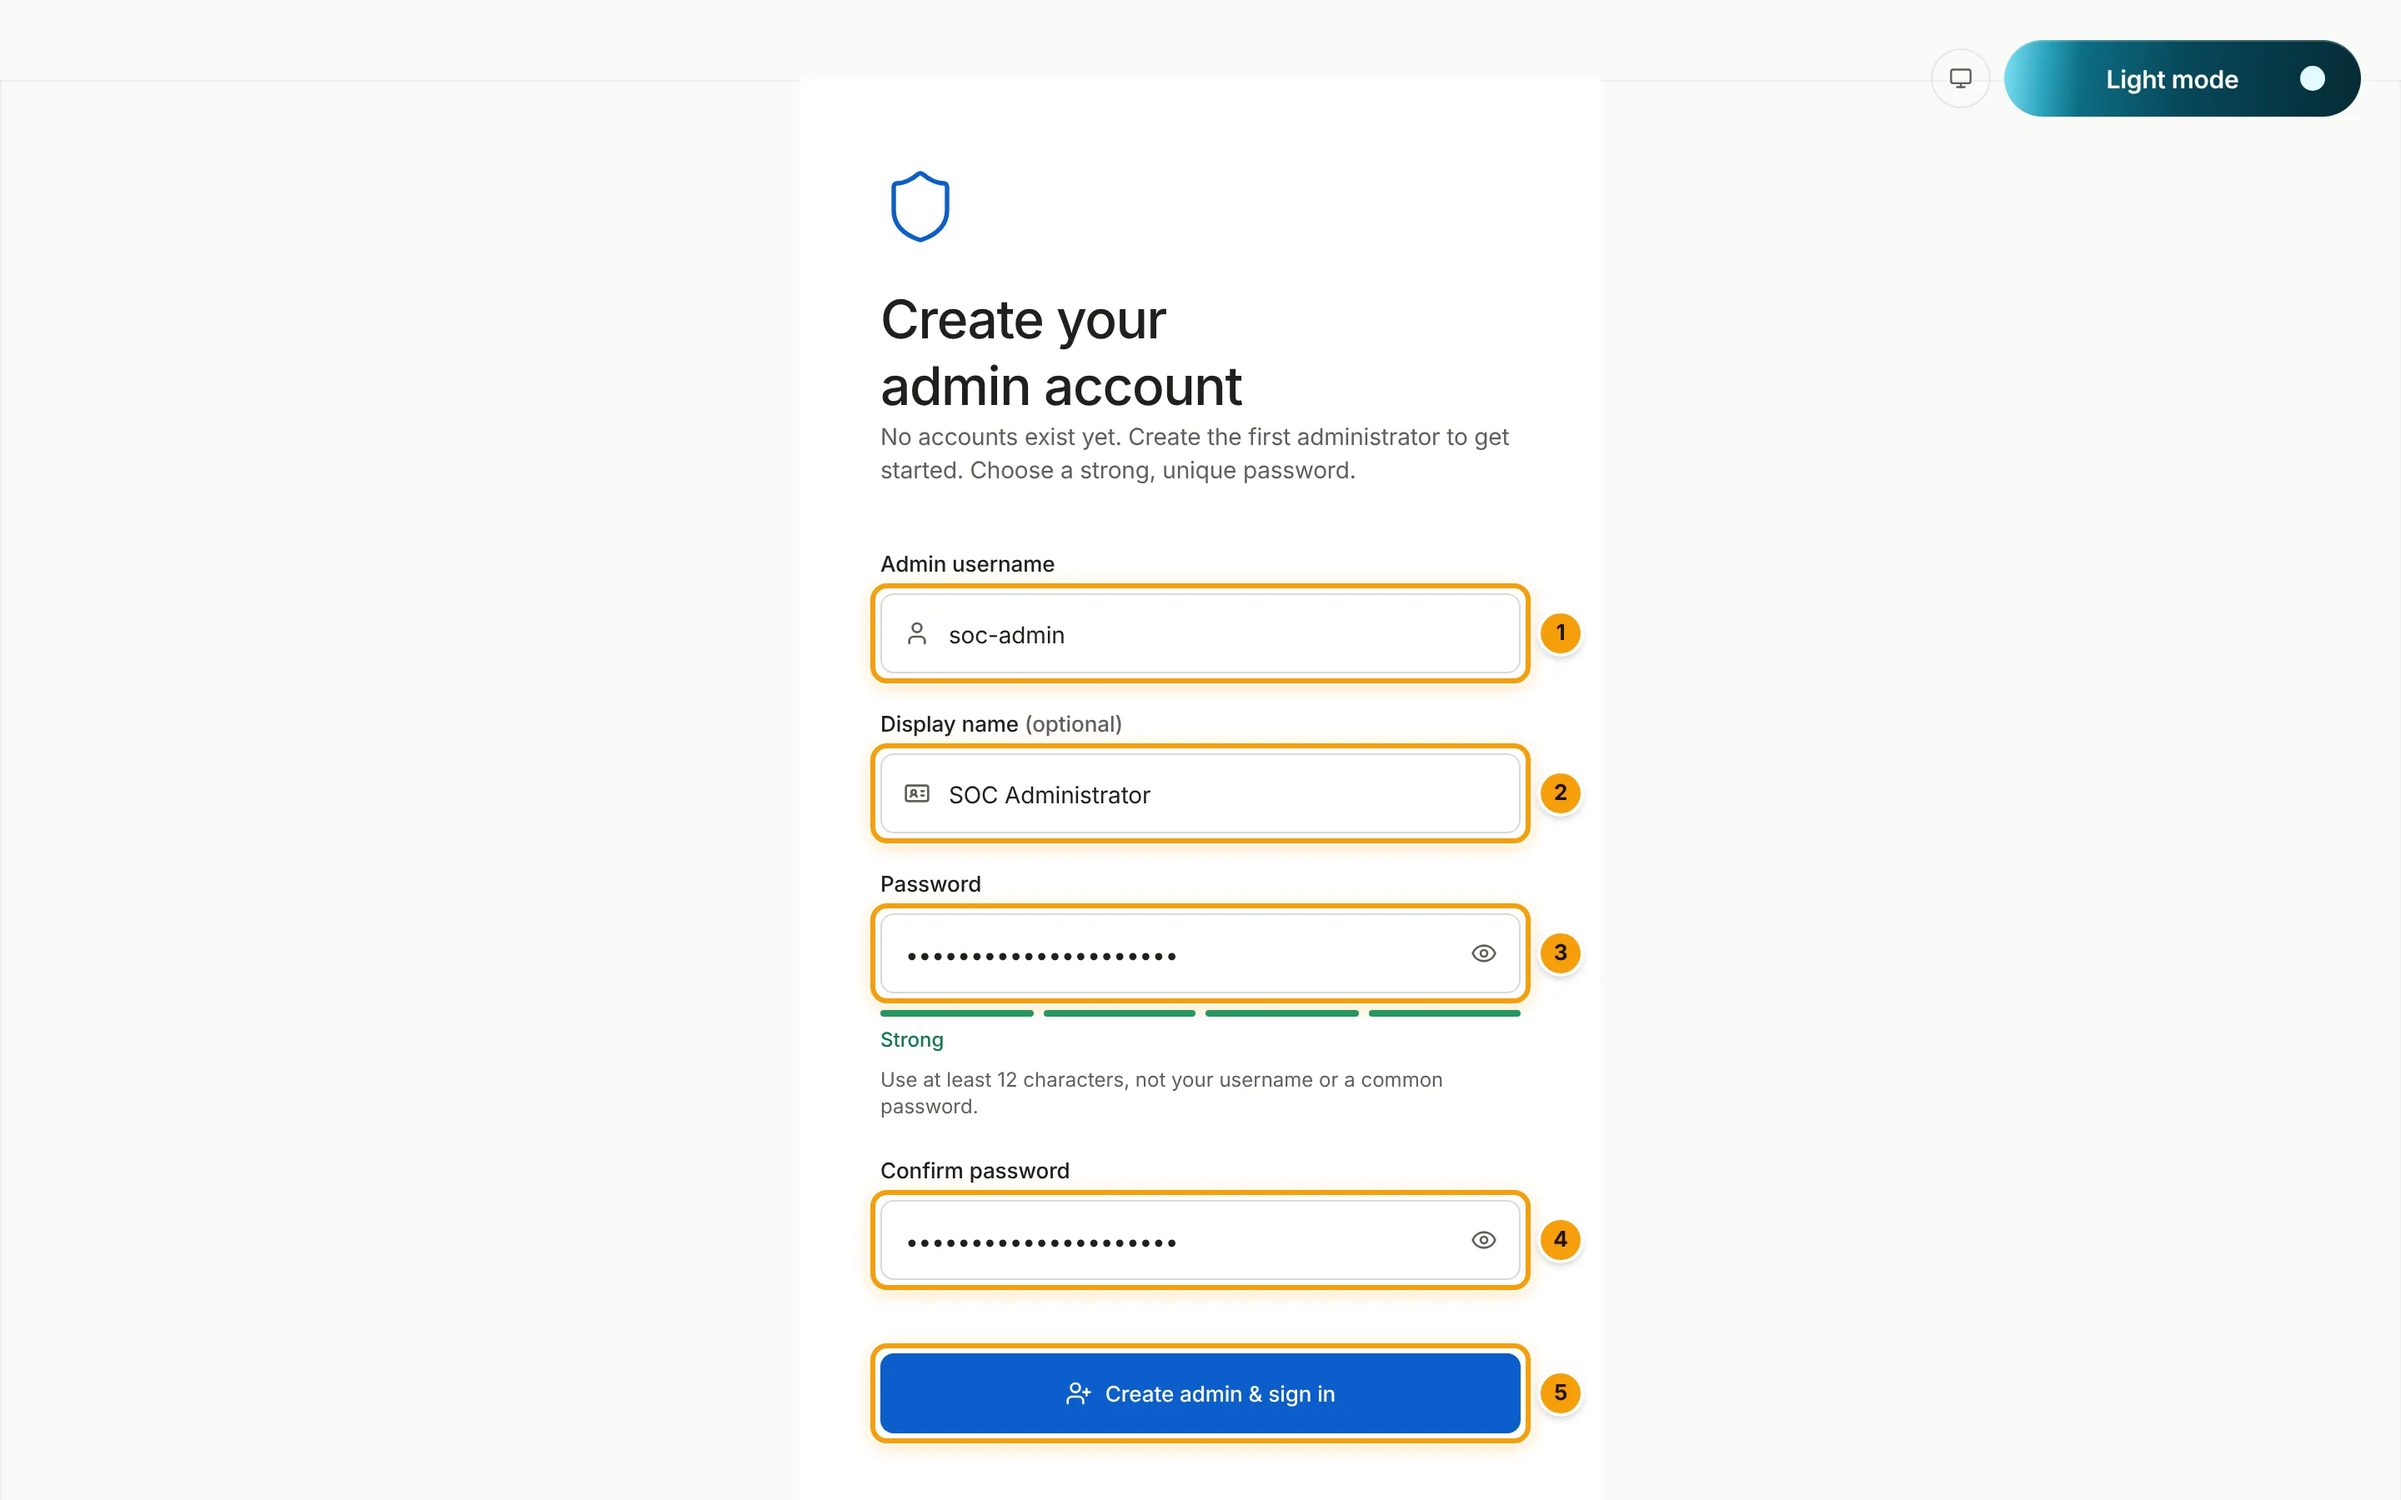
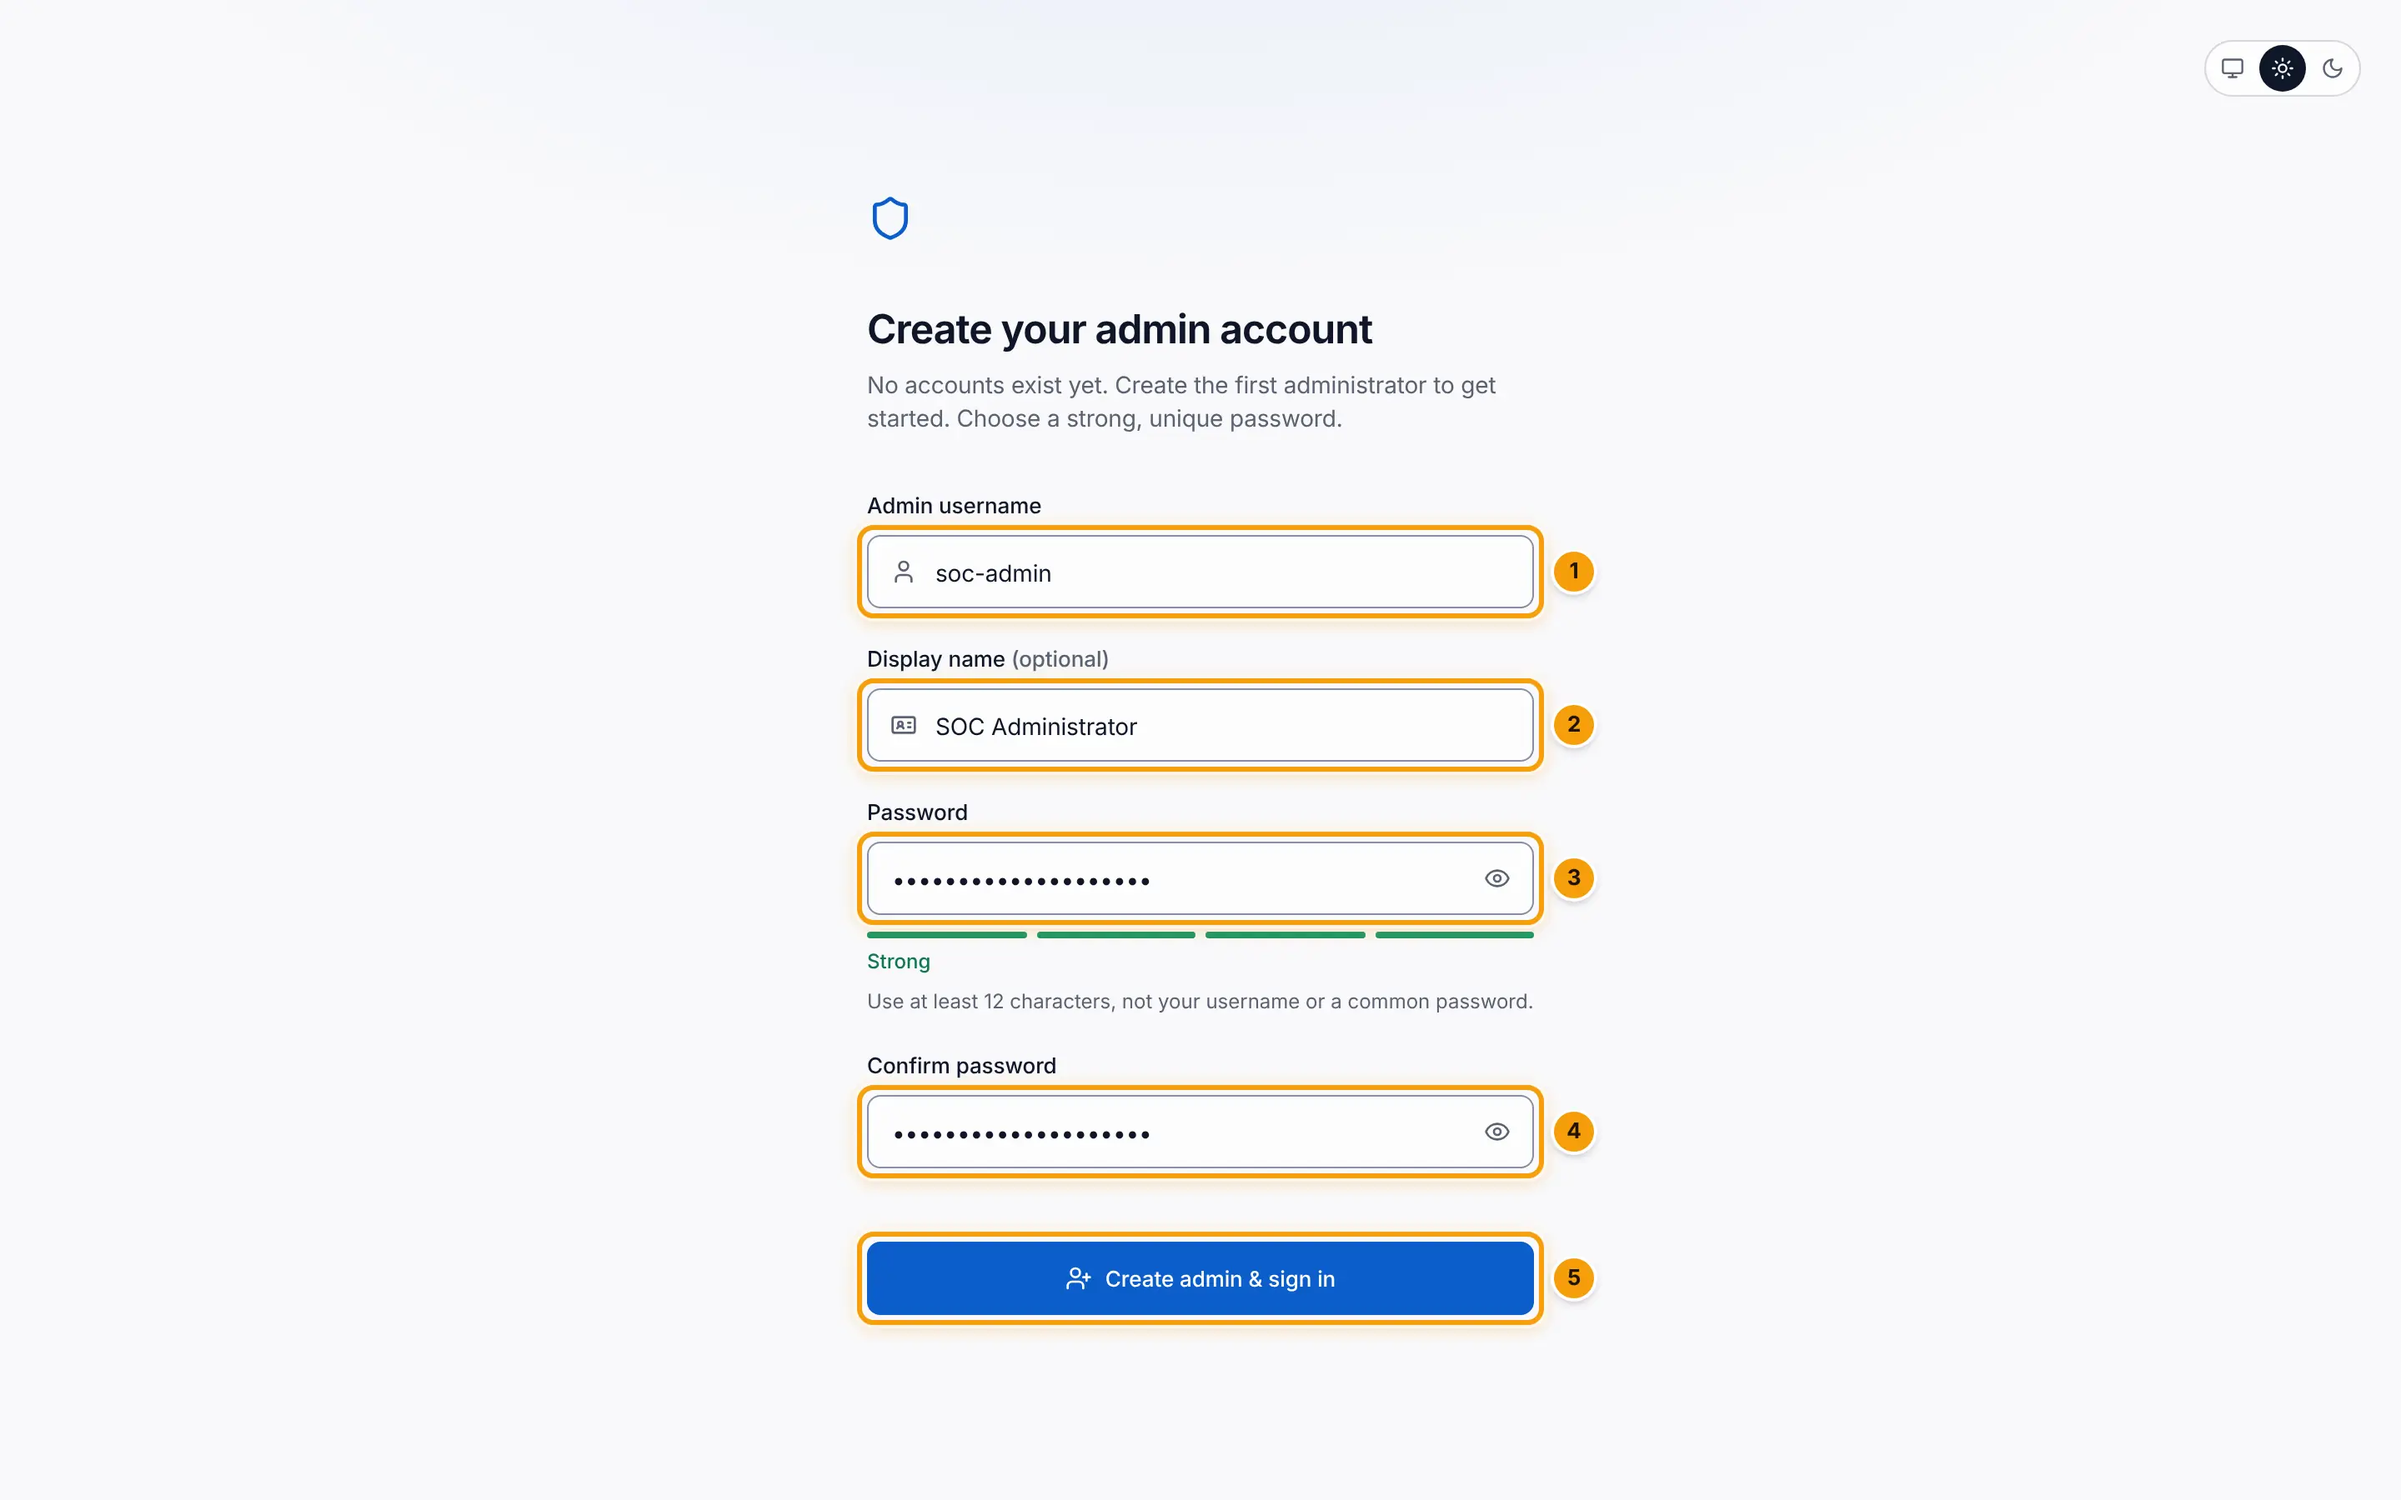
WP17C review: recapture the create-admin and second-factor screenshots
install-01-create-admin.webp and install-01b-secure-account.webp were still the
0.1.13 captures. Login.tsx draws both pages, so they showed the retired sign-in
chrome (the gradient Light mode pill and the grid backdrop) beside the refreshed
sign-in images, while INSTALL.md and first-run.md no longer date their images.
Both are captured again from a fresh first run (auth on, no account yet), light,
2880 by 1800 WebP, with the same five numbered highlights on the create-admin form.
The What's new update that reused the old create-admin image keeps its copy.

test_round16_wp17c_records.py gains two checks: every refreshed docs screenshot is
a 2880 by 1800 WebP under 250 KB and not byte-identical to the 0.1.13 capture it
replaced (fails on the two old files), and each What's new copy of a reused image
still holds the capture from before the refresh. screenshots.md now says the 16
images the notes use are 16 of the 76 listed, not all the notes use.

Claude-Session: https://claude.ai/code/session_01B3vp5DoutxD6hpRJ5xf7sH

Changed region(s): [[0.3438, 0.1867, 0.6875, 0.9644], [0.8125, 0.0, 1.0, 0.0933], [0.3438, 0.1244, 0.4062, 0.1556]]

diff --git a/backend/tests/test_round16_wp17c_records.py b/backend/tests/test_round16_wp17c_records.py
@@ -7,8 +7,10 @@ Offline: it reads repository files only.
 
 from __future__ import annotations
 
+import hashlib
 import json
 import re
+import struct
 from pathlib import Path
 
 import app
@@ -30,6 +32,44 @@ CASE_DETAIL_TSX = WEBUI / "soc" / "pages" / "CaseDetail.tsx"
 STATE_PY = REPO_ROOT / "backend" / "app" / "state.py"
 
 SCREENSHOT_PAGES = (README, INSTALL, FIRST_RUN_MD, QUICKSTART_MD)
+SCREENSHOTS = DOCS / "assets" / "screenshots"
+
+# The sha256 of each 0.1.13 capture the refresh replaced (the files at 817bb7f). Each
+# shows a surface 0.2.0 changed: the navigation (the Communication group), the release
+# badge, or a page Login.tsx draws (create admin, second factor, sign-in), which lost
+# the gradient theme pill and the grid backdrop. A byte-identical file still shows the
+# old interface.
+REPLACED_0_1_13 = {
[17 lines of base64/hex data omitted]
+}
+
+# A What's new update that reused a docs screenshot points at a copy made before the
+# refresh, so it keeps showing the interface it describes (SPEC 4.7 WP17).
+RELEASE_COPIES = {
+    "install-create-admin.webp": "install-01-create-admin.webp",
+    "calmer-case-manager.webp": "case-manager.webp",
+    "rbac-switch.webp": "users-rbac.webp",
+    "add-user.webp": "users-add-user.webp",
+    "audit-log.webp": "audit-log.webp",
+    "dashboards-library.webp": "dashboards-library.webp",
+    "runbooks-library.webp": "runbooks.webp",
+}
 
 
 def _read(path: Path) -> str:
@@ -38,6 +78,22 @@ def _read(path: Path) -> str:
 
 def _flat(path: Path) -> str:
     return " ".join(_read(path).split())
+
+
+def _webp_size(data: bytes) -> tuple[int, int]:
+    """The pixel size from a WebP file's first chunk (lossy, lossless or extended)."""
+    assert data[:4] == b"RIFF" and data[8:12] == b"WEBP", "not a WebP file"
+    kind = data[12:16]
+    if kind == b"VP8 ":
+        assert data[23:26] == b"\x9d\x01\x2a", "bad VP8 start code"
+        width, height = struct.unpack("<HH", data[26:30])
+        return width & 0x3FFF, height & 0x3FFF
+    if kind == b"VP8L":
+        bits = int.from_bytes(data[21:25], "little")
+        return (bits & 0x3FFF) + 1, ((bits >> 14) & 0x3FFF) + 1
+    if kind == b"VP8X":
+        return int.from_bytes(data[24:27], "little") + 1, int.from_bytes(data[27:30], "little") + 1
+    raise AssertionError(f"unknown WebP chunk {kind!r}")
 
 
 def _notes_images() -> set[str]:
@@ -131,3 +187,25 @@ def test_the_notes_json_is_valid_and_references_only_shipped_images():
     shared = {p.name for p in (DOCS / "assets" / "screenshots").glob("*.webp")}
     for name in _notes_images():
         assert name in shipped or name in shared, name
+
+
+def test_every_refreshed_screenshot_is_a_new_capture_of_the_same_frame():
+    # Same name, same 2880 by 1800 frame (1440 by 900 at device scale 2) and the
+    # 250 KB cap, but not the 0.1.13 bytes.
+    stale = []
+    for name, old_sha in REPLACED_0_1_13.items():
+        data = (SCREENSHOTS / name).read_bytes()
+        assert _webp_size(data) == (2880, 1800), name
+        assert len(data) <= 250_000, (name, len(data))
+        if hashlib.sha256(data).hexdigest() == old_sha:
+            stale.append(name)
+    assert not stale, f"still the 0.1.13 capture: {stale}"
+
+
+def test_the_notes_keep_the_capture_from_before_the_refresh():
+    used = _notes_images()
+    folder = RELEASE_ASSETS / "0.2.0"
+    for copy, original in RELEASE_COPIES.items():
+        assert copy in used, copy
+        digest = hashlib.sha256((folder / copy).read_bytes()).hexdigest()
+        assert digest == REPLACED_0_1_13[original], copy

diff --git a/docs/research/2026-11-round16/acceptance/screenshots.md b/docs/research/2026-11-round16/acceptance/screenshots.md
@@ -1,8 +1,8 @@
 # Release screenshots for 0.2.0 (WP17B)
 
 Every screenshot SPEC §5.3 asks for, in light and dark, and the eight highlights of the newest
-What's new update (`0.2.0.2026-12`) that now carry images. The 16 images the notes use are in
-`docs/assets/releases/0.2.0/`. The other 60 are review captures: WP17C moved them to
+What's new update (`0.2.0.2026-12`) that now carry images. Of these 76 files, the 16 the notes
+use are in `docs/assets/releases/0.2.0/`. The other 60 are review captures: WP17C moved them to
 `docs/research/2026-11-round16/acceptance/screenshots/` (written `screenshots/...` in the table
 below), which the Help Center bundle leaves out.
 
